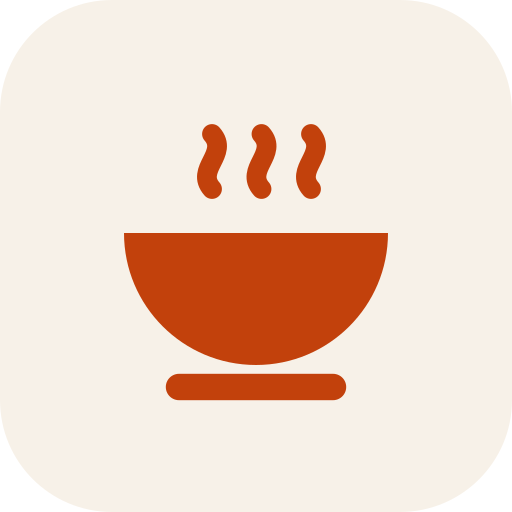
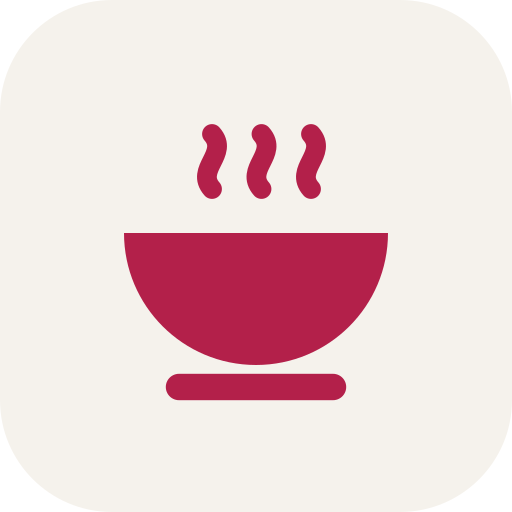
Farben Himbeere & Salbei, Einkaufsliste ohne Überlauf auf dem Handy
- Farb-Tokens, Kachelverläufe, Favicon, App-Icons, theme-color und
  Manifest auf Himbeerrot/Salbei umgestellt
- Einkaufsliste: Grid-Spalten mit minmax(0, …), Rezept-Chips auf
  Spaltenbreite begrenzt, lange Einträge brechen um, Kopf-Buttons
  umbrechen
- Version 2026.11.14

Claude-Session: https://claude.ai/code/session_01L1VAnHfUyJLyvsUsTtZFZD

Changed region(s): [[0.2188, 0.4375, 0.7812, 0.7812], [0.375, 0.2188, 0.6562, 0.4062]]

diff --git a/assets/css/00-tokens.css b/assets/css/00-tokens.css
@@ -17,21 +17,21 @@
 :root {
   color-scheme: light dark;
 
-  --bg: light-dark(#f7f1e8, #161210);
-  --bg-glow: light-dark(#fde2cc, #3a1f12);
-  --surface: light-dark(#fffcf8, #201a16);
-  --surface-2: light-dark(#f1e8dc, #2a221d);
-  --surface-glass: light-dark(rgb(255 252 248 / 0.78), rgb(32 26 22 / 0.78));
+  --bg: light-dark(#f5f2ec, #121413);
+  --bg-glow: light-dark(#f9d9e1, #2f1520);
+  --surface: light-dark(#fefcf9, #201a1b);
+  --surface-2: light-dark(#ece8df, #2a2123);
+  --surface-glass: light-dark(rgb(254 252 249 / 0.78), rgb(32 26 27 / 0.78));
   --ink: light-dark(#231b15, #f4ece2);
   --muted: light-dark(#73655a, #b2a496);
   --line: light-dark(#e6dbcc, #3a3029);
-  --accent: light-dark(#c2410c, #f2894a);
-  --accent-strong: light-dark(#9a3209, #ffa66e);
-  --accent-ink: light-dark(#ffffff, #1b110a);
-  --accent-soft: light-dark(#fde6d6, #3b2215);
-  --herb: light-dark(#3d6b4c, #93c7a3);
-  --herb-soft: light-dark(#e3efe5, #1f3326);
-  --shadow-color: light-dark(rgb(74 44 20 / 0.12), rgb(0 0 0 / 0.45));
+  --accent: light-dark(#b3204a, #ee7898);
+  --accent-strong: light-dark(#8c1838, #ffa3ba);
+  --accent-ink: light-dark(#ffffff, #1b0a10);
+  --accent-soft: light-dark(#f8dfe6, #38171f);
+  --herb: light-dark(#4f6f58, #a5c7ad);
+  --herb-soft: light-dark(#e4ece4, #1f2b23);
+  --shadow-color: light-dark(rgb(70 30 40 / 0.12), rgb(0 0 0 / 0.45));
 
   --font-display: "Instrument Serif", "Iowan Old Style", "Palatino Linotype", Georgia, serif;
   --font-body: system-ui, -apple-system, "Segoe UI", Roboto, "Helvetica Neue", Arial, sans-serif;

diff --git a/layouts/baseof.html b/layouts/baseof.html
@@ -9,8 +9,8 @@
   <meta name="description" content="{{ partial "description.html" . }}">
   {{ with site.Params.author }}<meta name="author" content="{{ . }}">{{ end }}
   {{ with .Params.tags | default site.Params.keywords }}<meta name="keywords" content="{{ delimit . ", " }}">{{ end }}
-  <meta name="theme-color" content="#f7f1e8" media="(prefers-color-scheme: light)">
-  <meta name="theme-color" content="#171310" media="(prefers-color-scheme: dark)">
+  <meta name="theme-color" content="#f5f2ec" media="(prefers-color-scheme: light)">
+  <meta name="theme-color" content="#121413" media="(prefers-color-scheme: dark)">
   <link rel="canonical" href="{{ .Permalink }}">
   <link rel="icon" type="image/svg+xml" href="{{ "favicon.svg" | relURL }}">
   <link rel="icon" type="image/png" sizes="32x32" href="{{ "favicon-32x32.png" | relURL }}">

diff --git a/assets/css/50-shopping.css b/assets/css/50-shopping.css
@@ -12,18 +12,20 @@
 
 .shopping__actions {
   display: flex;
+  flex-wrap: wrap;
   gap: 0.5rem;
 }
 
 .shopping__grid {
   display: grid;
+  grid-template-columns: minmax(0, 1fr);
   gap: 1.5rem;
   align-items: start;
 }
 
 @media (min-width: 56rem) {
   .shopping__grid {
-    grid-template-columns: 1.3fr 1fr;
+    grid-template-columns: minmax(0, 1.3fr) minmax(0, 1fr);
   }
 
   .picker {
@@ -65,6 +67,7 @@
 
 .selected li {
   display: flex;
+  max-width: 100%;
   align-items: center;
   gap: 0.25rem;
   padding: 0.25rem 0.3rem 0.25rem 0.85rem;
@@ -77,6 +80,7 @@
 .selected a {
   color: var(--accent-strong);
   text-decoration: none;
+  min-width: 0;
   max-width: 14rem;
   overflow: hidden;
   text-overflow: ellipsis;
@@ -172,6 +176,7 @@
 
 .item__name {
   font-size: 1.05rem;
+  overflow-wrap: anywhere;
 }
 
 .item__amount {

diff --git a/assets/css/30-listings.css b/assets/css/30-listings.css
@@ -221,33 +221,33 @@
 }
 
 .ph--0 {
-  --ph-a: #f7b08a;
-  --ph-b: #d24f1c;
+  --ph-a: #f2a7bb;
+  --ph-b: #b3204a;
 }
 
 .ph--1 {
-  --ph-a: #f6d488;
-  --ph-b: #d98e1f;
+  --ph-a: #c6d9c4;
+  --ph-b: #4f6f58;
 }
 
 .ph--2 {
-  --ph-a: #b6d8ad;
-  --ph-b: #457f51;
+  --ph-a: #dcb6d2;
+  --ph-b: #7a3a68;
 }
 
 .ph--3 {
-  --ph-a: #e6b4c7;
-  --ph-b: #9a456b;
+  --ph-a: #f4c3bd;
+  --ph-b: #b9474f;
 }
 
 .ph--4 {
-  --ph-a: #b2d3de;
-  --ph-b: #387b93;
+  --ph-a: #b9d1d0;
+  --ph-b: #3f6b6e;
 }
 
 .ph--5 {
-  --ph-a: #e5c4a3;
-  --ph-b: #865534;
+  --ph-a: #e3cfbb;
+  --ph-b: #8a6249;
 }
 
 .empty {

diff --git a/CHANGELOG.md b/CHANGELOG.md
@@ -4,6 +4,16 @@ Wichtige Änderungen an der Seite. Format: [Keep a Changelog](https://keepachang
 Versionen nach Datum (`JJJJ.M.T`, ohne führende Nullen). Veröffentlichen: siehe [README](README.md#veröffentlichen).
 Ältere Versionen ohne Changelog: Git-Tags `2024.06.16` bis `2026.10.13`.
 
+## [2026.11.14] - 2026-11-14
+
+### Geändert
+
+- Neue Farben „Himbeere & Salbei“: Himbeerrot statt Terrakotta, gedämpftes Salbeigrün, neutralerer Grund; Kacheln ohne Bild, Favicon und App-Icons passend dazu.
+
+### Behoben
+
+- Einkaufsliste: Lange Rezeptnamen und Einträge machen die Seite auf dem Handy nicht mehr breiter als den Bildschirm.
+
 ## [2026.11.13] - 2026-11-13
 
 ### Neu
